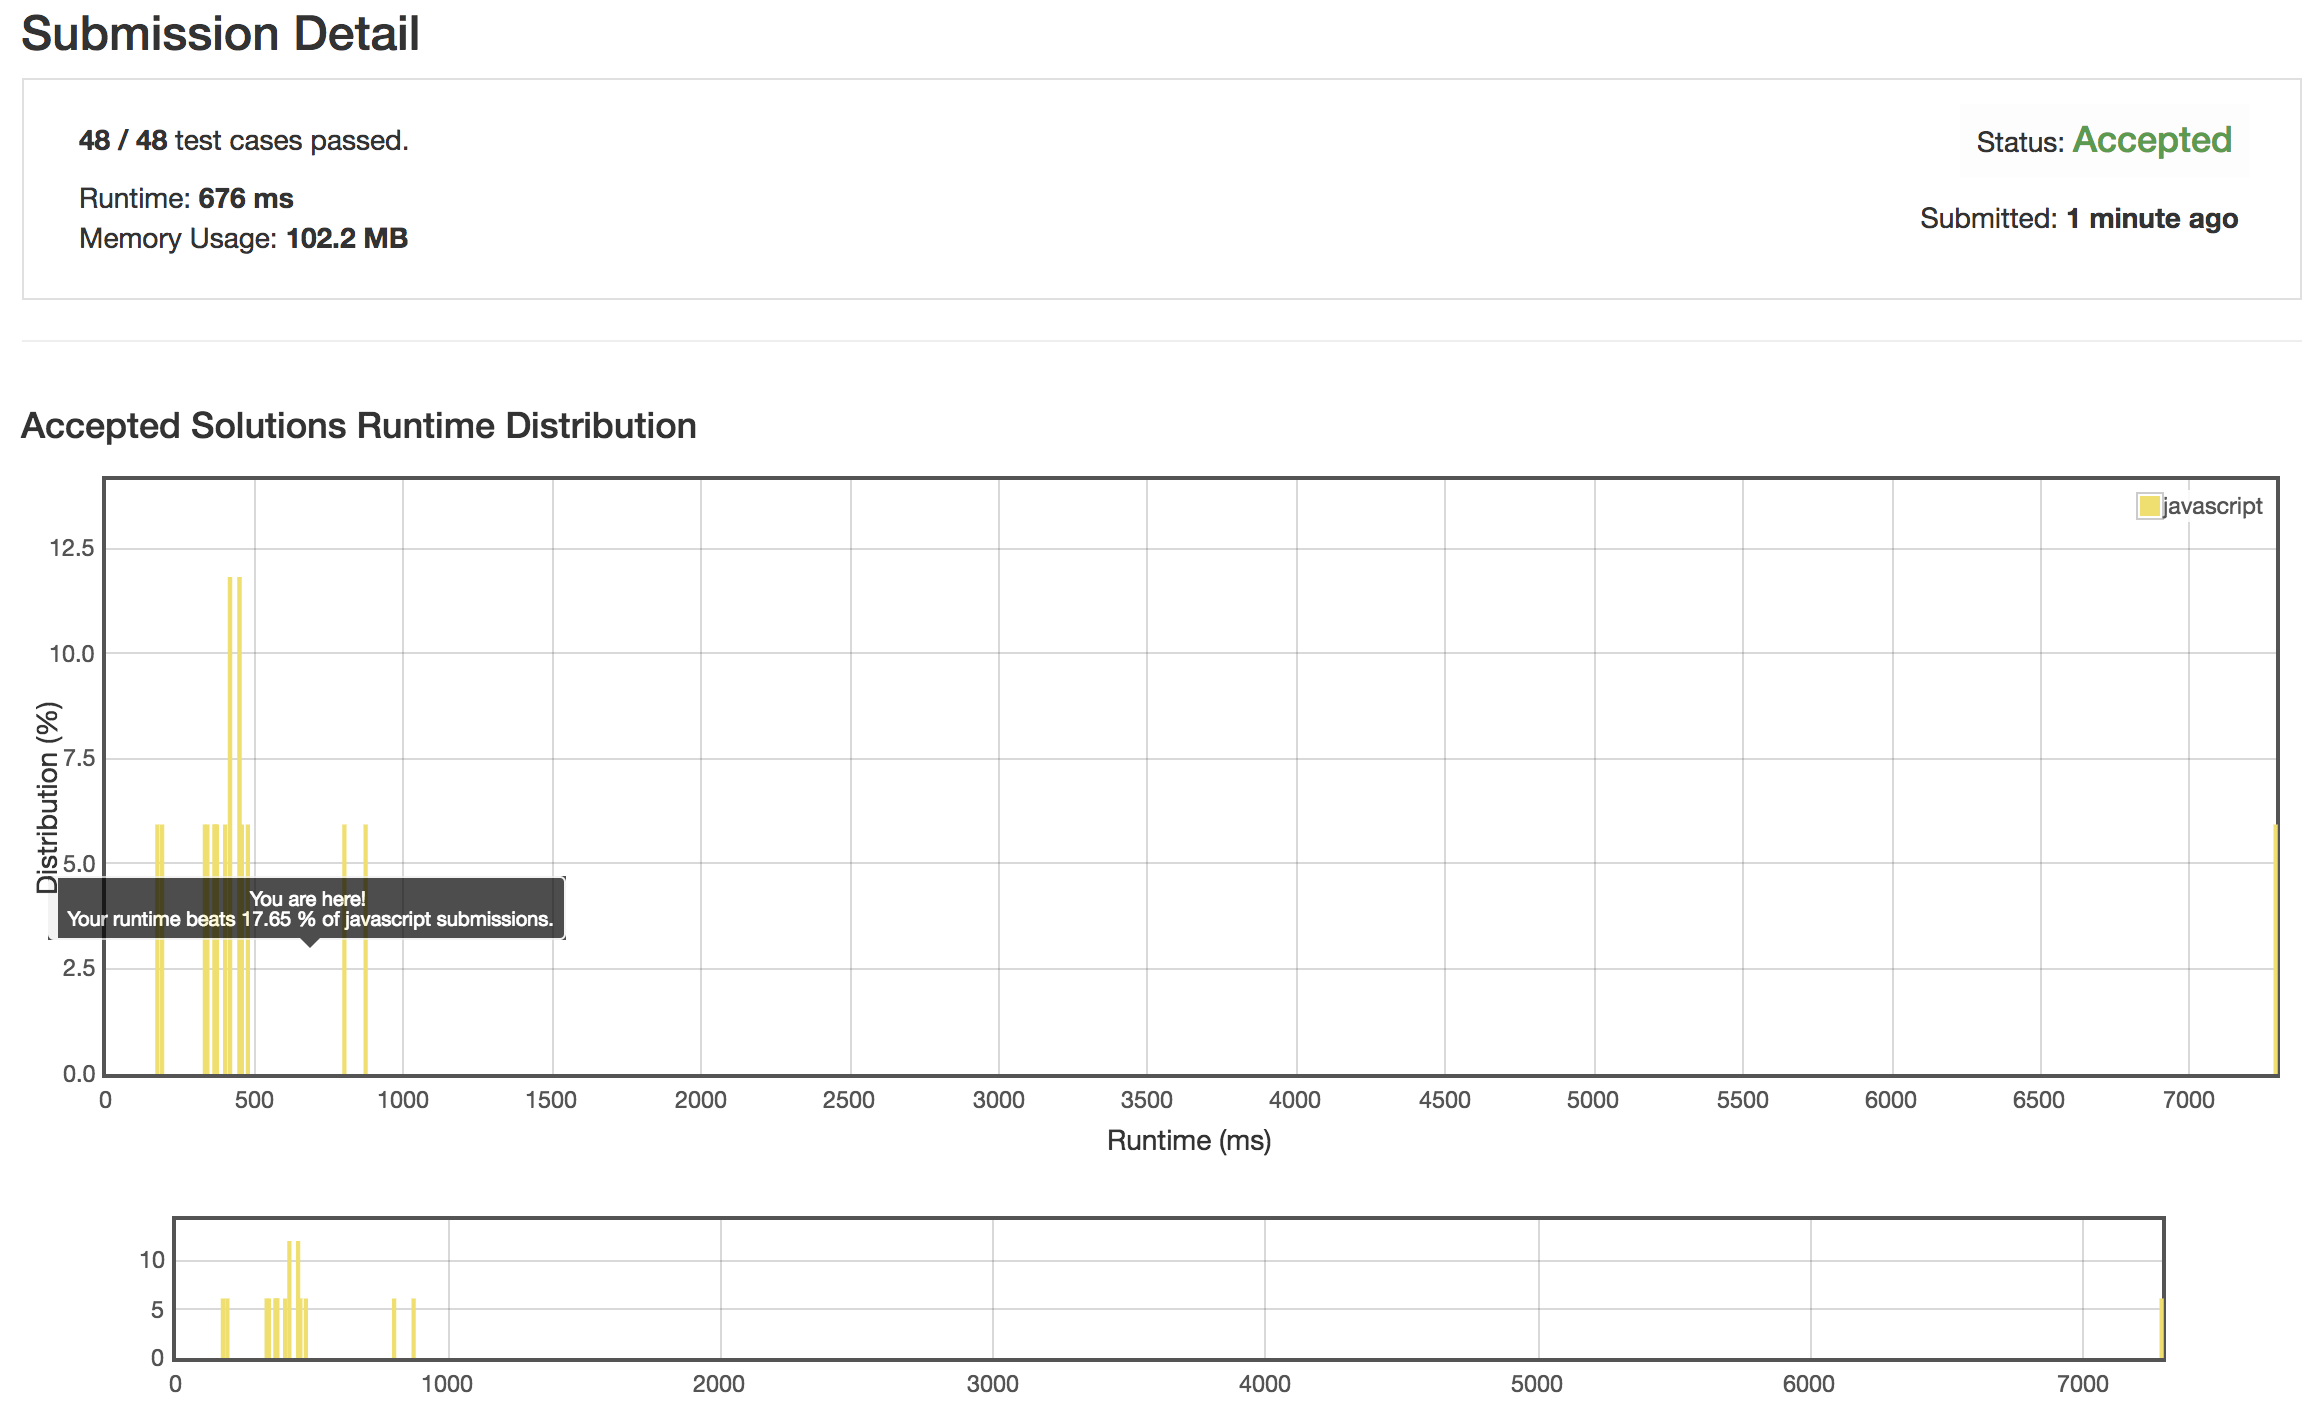
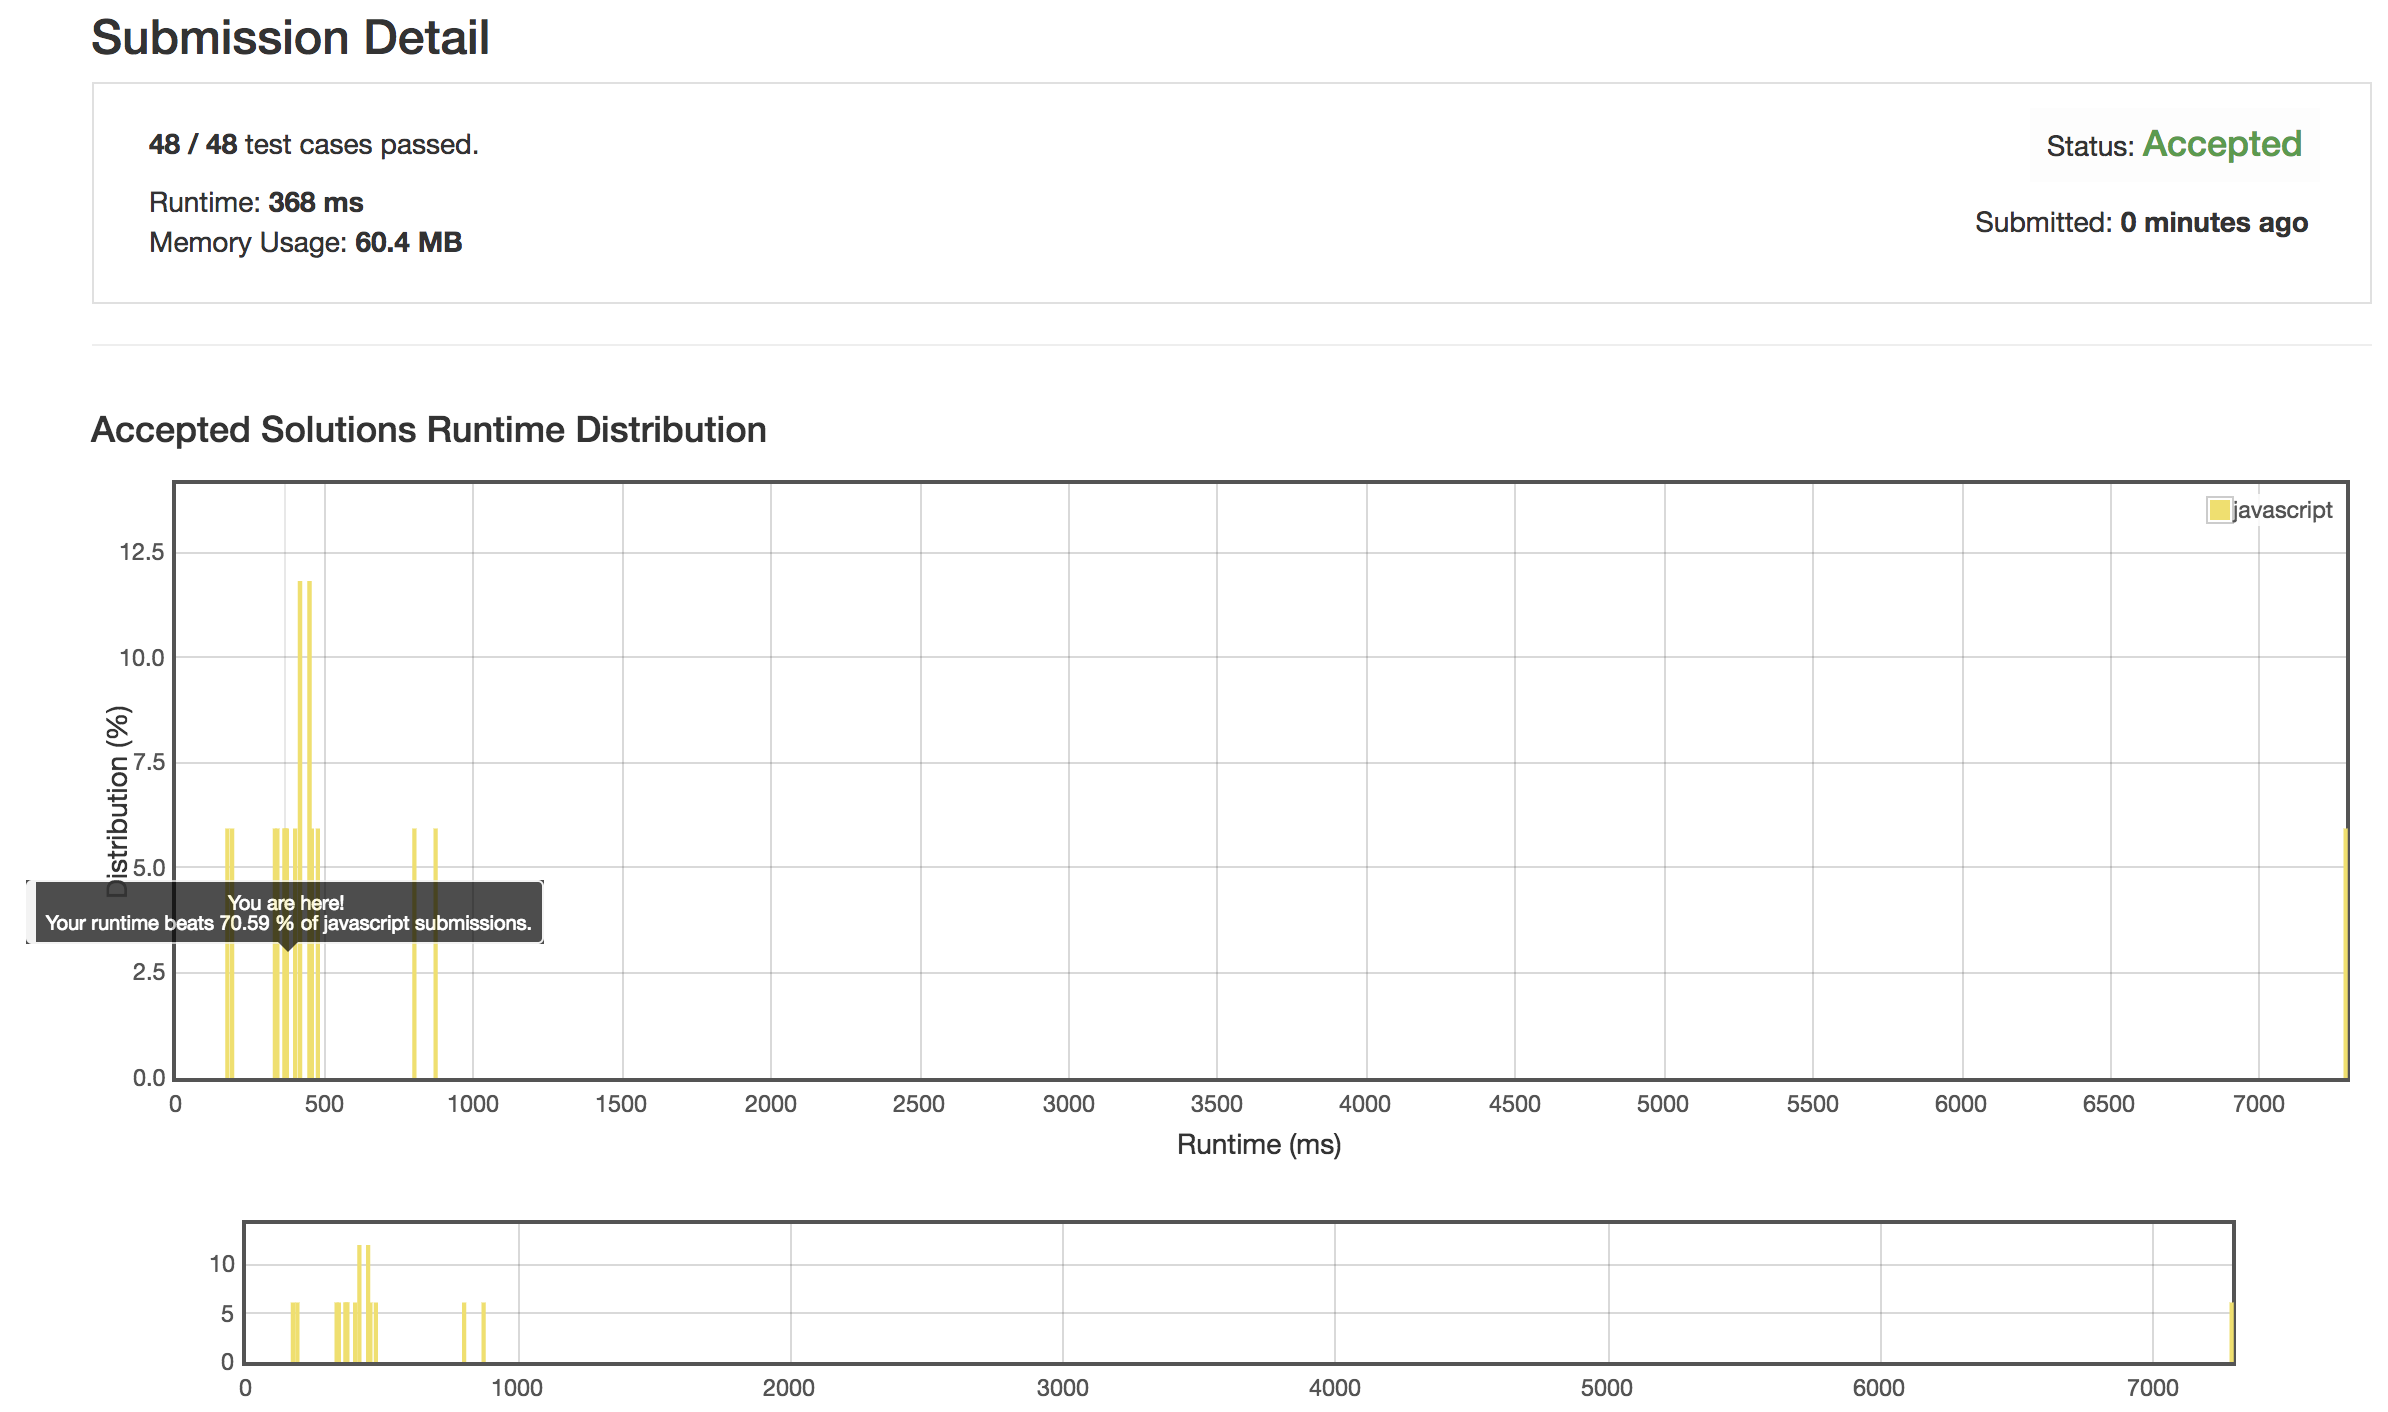
UPDATE l4sum II to improve runtime and space usage

diff --git a/medium/4sum-ii/4sumII.js b/medium/4sum-ii/4sumII.js
@@ -7,24 +7,21 @@
  */
 var fourSumCount = function(A, B, C, D) {
     // N = (A|B|C|D).length
-    let res = 0, n = A.length, abMap = {}, cdMap = {}, sum, nums, currNum, complementary;
+    let res = 0, n = A.length, abMap = {}, sum, complementary;
     
     for (let i = 0; i < n; i++) {
         for (let j = 0; j < n; j++) {
             sum = A[i] + B[j];
             abMap[sum] ? abMap[sum]++ : abMap[sum] = 1;
-            
-            sum = C[i] + D[j];
-            cdMap[sum] ? cdMap[sum]++ : cdMap[sum] = 1;
         }
     }
     
-    nums = Object.keys(abMap);
-    for (let i = 0; i < nums.length; i++) {
-        currNum = nums[i];
-        complementary = -currNum;
-        if (cdMap[complementary]) {
-            res += abMap[currNum] * cdMap[complementary];
+    for (let i = 0; i < n; i++) {
+        for (let j = 0; j < n; j++) {
+            complementary = - (C[i] + D[j]);
+            if (abMap[complementary]) {
+                res += abMap[complementary];
+            }
         }
     }
     

diff --git a/README.md b/README.md
@@ -34,4 +34,4 @@ So far:
 | [Maximum Depth of N-ary Tree](easy/maximum-depth-of-n-ary-tree) | Easy | 100% | NA | 29th Jan 2019 |
 | [Delete Operation for Two Strings](medium/delete-operation-for-two-strings) | Medium | 80.82% | NA | 29th Jan 2019 |
 | [Max Increase to Keep City Skyline](medium/max-increase-to-keep-city-skyline) | Medium | 100% | NA | 30th Jan 2019 |
-| [4 Sum II](medium/4sum-ii) | Medium | 17.65% | 16.67% | 2nd Feb 2019 |
+| [4 Sum II](medium/4sum-ii) | Medium | 70.59% | 50% | 2nd Feb 2019 |
